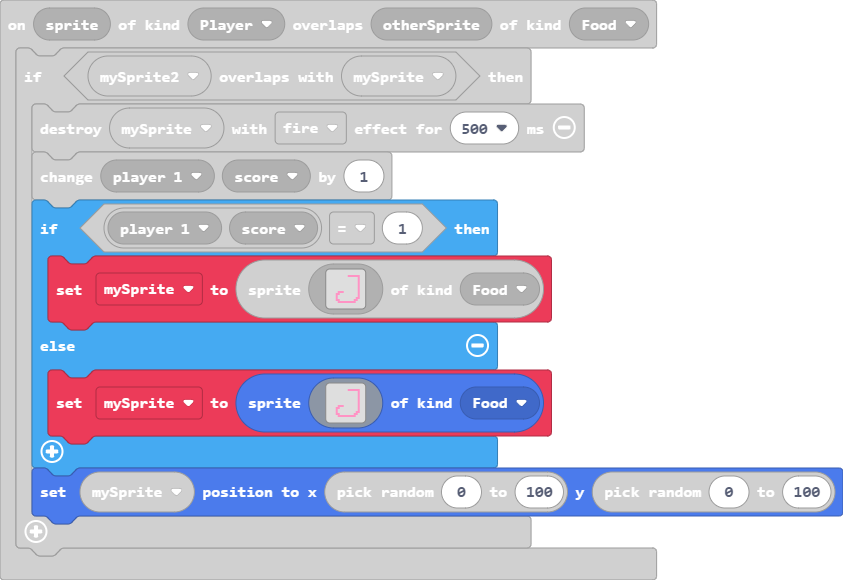
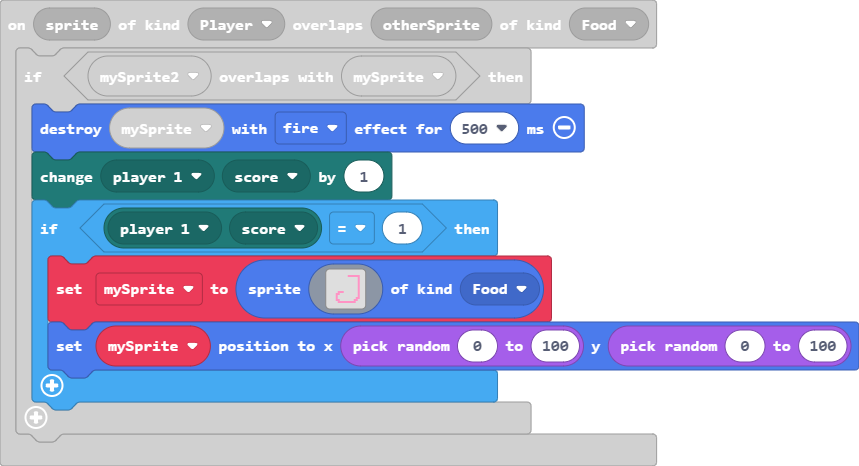
Restore '2024-08-23 14:25:02 Update images.g.jres, images.g.ts'

diff --git a/images.g.ts b/images.g.ts
@@ -117,25 +117,6 @@ namespace myImages {
 . . . . 3 7 3 3 3 8 . . 7 . 7 7 
 . 8 8 8 8 8 8 . . . . 8 . 7 7 . 
 `;
-            case "image7":
-            case "myImage3":return img`
-. . . . . . . . . . . . . . . . 
-. . . . . . . . . 3 3 3 3 3 3 . 
-. . . . . . . . . . . . . . 3 . 
-. . . . . . . . . . . . . . 3 . 
-. . . . . . . . . . . . . . 3 . 
-. . . . . . . . . . . . . . 3 . 
-. . . . . . . . . . . . . . 3 . 
-. . . . . . . . . . . . . . 3 . 
-. . . . . . . . . . . . . . 3 . 
-. . . . 3 3 3 . . . . . . . 3 . 
-. . . 3 3 . . . . . . . . . 3 . 
-. . . 3 . . . . . . . . . . 3 . 
-. . . 3 . . . . . . . . . 3 3 . 
-. . . 3 3 . . . . . . . 3 3 . . 
-. . . . 3 3 3 3 3 3 3 3 3 . . . 
-. . . . . . . . . . . . . . . . 
-`;
             case "image8":
             case "myImage4":return img`
 . . . . . . . . . . . . . . . . 
@@ -173,6 +154,63 @@ namespace myImages {
 . . 4 4 f 4 4 5 5 4 4 f 4 4 . . 
 . . . . . f f f f f f . . . . . 
 . . . . . f f . . f f . . . . . 
+`;
+            case "image7":
+            case "myImage3":return img`
+. . . . . . . . . . . . . . . . 
+. . . . . . . . . 3 3 3 3 3 3 . 
+. . . . . . . . . . . . . . 3 . 
+. . . . . . . . . . . . . . 3 . 
+. . . . . . . . . . . . . . 3 . 
+. . . . . . . . . . . . . . 3 . 
+. . . . . . . . . . . . . . 3 . 
+. . . . . . . . . . . . . . 3 . 
+. . . . . . . . . . . . . . 3 . 
+. . . . 3 3 3 . . . . . . . 3 . 
+. . . 3 3 . . . . . . . . . 3 . 
+. . . 3 . . . . . . . . . . 3 . 
+. . . 3 . . . . . . . . . 3 3 . 
+. . . 3 3 . . . . . . . 3 3 . . 
+. . . . 3 3 3 3 3 3 3 3 3 . . . 
+. . . . . . . . . . . . . . . . 
+`;
+            case "image11":
+            case "myImage7":return img`
+. . 3 . . . . . . . . 3 3 3 . . 
+. . 3 3 . . . . . . . 3 3 3 . . 
+. . 3 3 . . . . . . . 3 3 . . . 
+. . 3 3 3 . . . . . . 3 3 . . . 
+. . . 3 3 . . . . . . 3 3 . . . 
+. . . 3 3 . . . . . . 3 3 . . . 
+. . . 3 . 3 . . . . . 3 . . . . 
+. . . 3 . 3 . . . . . 3 . . . . 
+. . . 3 . . 3 . . . . 3 . . . . 
+. . . 3 3 . 3 3 . . . 3 . . . . 
+. . . 3 3 . . 3 . . . 3 . . . . 
+. . . 3 3 . . . 3 . . 3 . . . . 
+. . . 3 . . . . 3 . . 3 . . . . 
+. . 3 3 . . . . . 3 3 3 . . . . 
+. 3 3 . . . . . . . 3 3 . . . . 
+3 3 3 . . . . . . . . 3 . . . . 
+`;
+            case "image12":
+            case "myImage8":return img`
+. . . . . . 3 3 3 3 3 3 . . . . 
+. . . . . 3 . . . . . 3 3 . . . 
+. . . . 3 . . . . . . . 3 3 . . 
+. . . . 3 3 . . . . . . 3 3 . . 
+. . . . . 3 . . . . . . 3 3 . . 
+. . . . . 3 . . . . . 3 3 3 . . 
+. . . . . . 3 3 . . . . . . . . 
+. . . . . . . 3 3 3 3 3 . . . . 
+. . . . . . . . . . . 3 3 . . . 
+. . . . . . . . . . . . . 3 . . 
+. . 3 . . . . . . . . . . 3 . . 
+. . 3 . . . . . . . . . . 3 3 . 
+. 3 3 . . . . . . . . . . 3 . . 
+. 3 3 . 3 3 . . . . . . . 3 . . 
+. . 3 3 3 3 3 3 . . . 3 3 3 . . 
+. . 3 3 3 3 3 3 3 3 3 3 . . . . 
 `;
         }
         return null;

diff --git a/tilemap.g.ts b/tilemap.g.ts
@@ -30,25 +30,6 @@ namespace myTiles {
 . . . . . . . . . . . . . . . . 
 . . . . . . . . . . . . . . . . 
 `, [myTiles.transparency16,sprites.castle.tilePath1,sprites.castle.tilePath2,sprites.castle.tilePath3,sprites.castle.tilePath6,sprites.castle.tilePath9,sprites.castle.tilePath8,sprites.castle.tilePath7,sprites.castle.tilePath4,sprites.castle.tilePath5], TileScale.Sixteen);
-            case "level2":
-            case "level2":return tiles.createTilemap(hex`1000100000000000000000000000000000000000000000000000000000000000000000000000000000000000000000000000000000000000000000000000000000000000000000000000000000000000000000000000000000000000000000000000000000000000000000000000000000000000000000000000000000000000000000000000000000000000000000000000000000000000000000000000000000000000000000000000000000000000000000000000000000000000000000000000000000000000000000000000000000000000000000000000000000000000000000000000000000000000000000000000000000000000000000000000000000000000`, img`
-. . . . . . . . . . . . . . . . 
-. . . . . . . . . . . . . . . . 
-. . . . . . . . . . . . . . . . 
-. . . . . . . . . . . . . . . . 
-. . . . . . . . . . . . . . . . 
-. . . . . . . . . . . . . . . . 
-. . . . . . . . . . . . . . . . 
-. . . . . . . . . . . . . . . . 
-. . . . . . . . . . . . . . . . 
-. . . . . . . . . . . . . . . . 
-. . . . . . . . . . . . . . . . 
-. . . . . . . . . . . . . . . . 
-. . . . . . . . . . . . . . . . 
-. . . . . . . . . . . . . . . . 
-. . . . . . . . . . . . . . . . 
-. . . . . . . . . . . . . . . . 
-`, [myTiles.transparency16], TileScale.Sixteen);
         }
         return null;
     })

diff --git a/main.ts b/main.ts
@@ -1,19 +1,17 @@
-sprites.onOverlap(SpriteKind.Player, SpriteKind.Food, function (sprite, otherSprite) {
+sprites.onOverlap(SpriteKind.Player, SpriteKind.Food, function on_on_overlap(sprite: Sprite, otherSprite: Sprite) {
     if (mySprite2.overlapsWith(mySprite)) {
-        sprites.destroy(mySprite, effects.fire, 500)
-        mp.changePlayerStateBy(mp.playerSelector(mp.PlayerNumber.One), MultiplayerState.score, 1)
-        if (mp.getPlayerState(mp.playerSelector(mp.PlayerNumber.One), MultiplayerState.score) == 1) {
-            mySprite = sprites.create(assets.image`myImage3`, SpriteKind.Food)
-        } else {
-            mySprite = sprites.create(assets.image`myImage3`, SpriteKind.Food)
-        }
-        mySprite.setPosition(randint(0, 100), randint(0, 100))
+        sprites.destroy(mySprite)
     }
+    
 })
-let mySprite2: Sprite = null
-let mySprite: Sprite = null
+let mySprite2 : Sprite = null
+let mySprite : Sprite = null
 mp.setPlayerState(mp.playerSelector(mp.PlayerNumber.One), MultiplayerState.score, 0)
-mySprite = sprites.create(assets.image`myImage3`, SpriteKind.Food)
-mySprite2 = sprites.create(assets.image`testsprite`, SpriteKind.Player)
+mySprite = sprites.create(assets.image`
+    myImage3
+`, SpriteKind.Food)
+mySprite2 = sprites.create(assets.image`
+    testsprite
+`, SpriteKind.Player)
 mySprite.setPosition(17, 18)
 controller.moveSprite(mySprite2, 100, 100)
